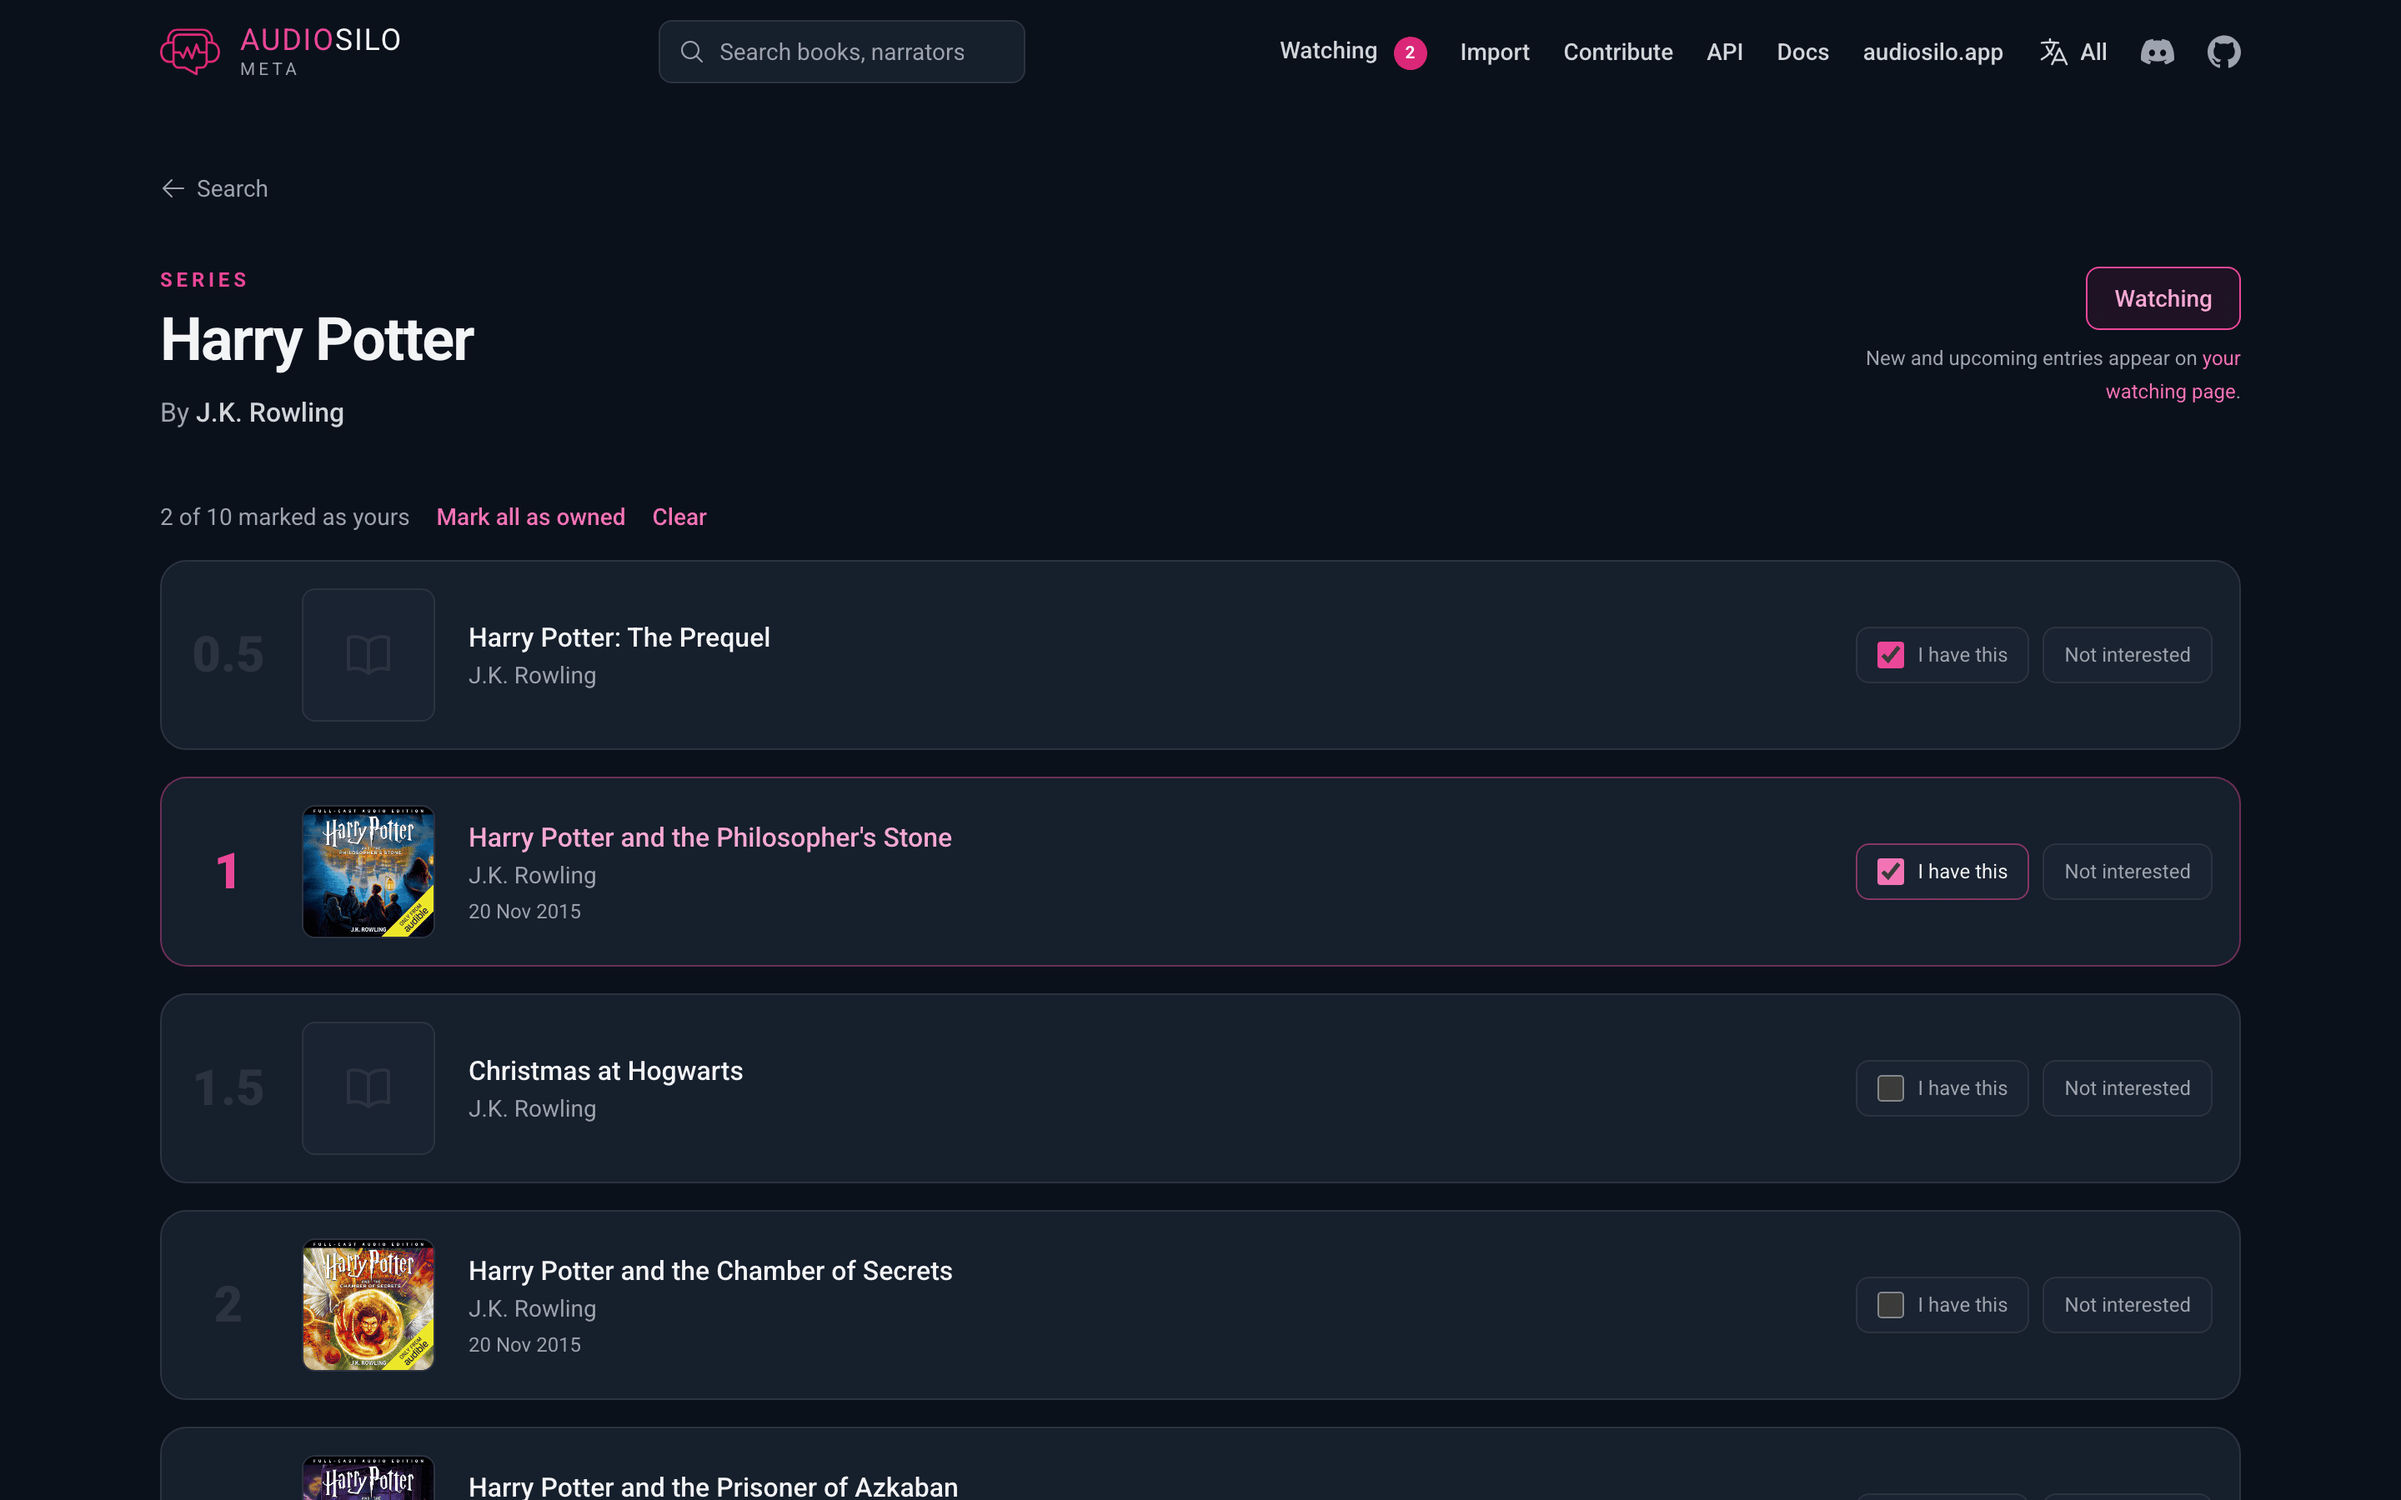
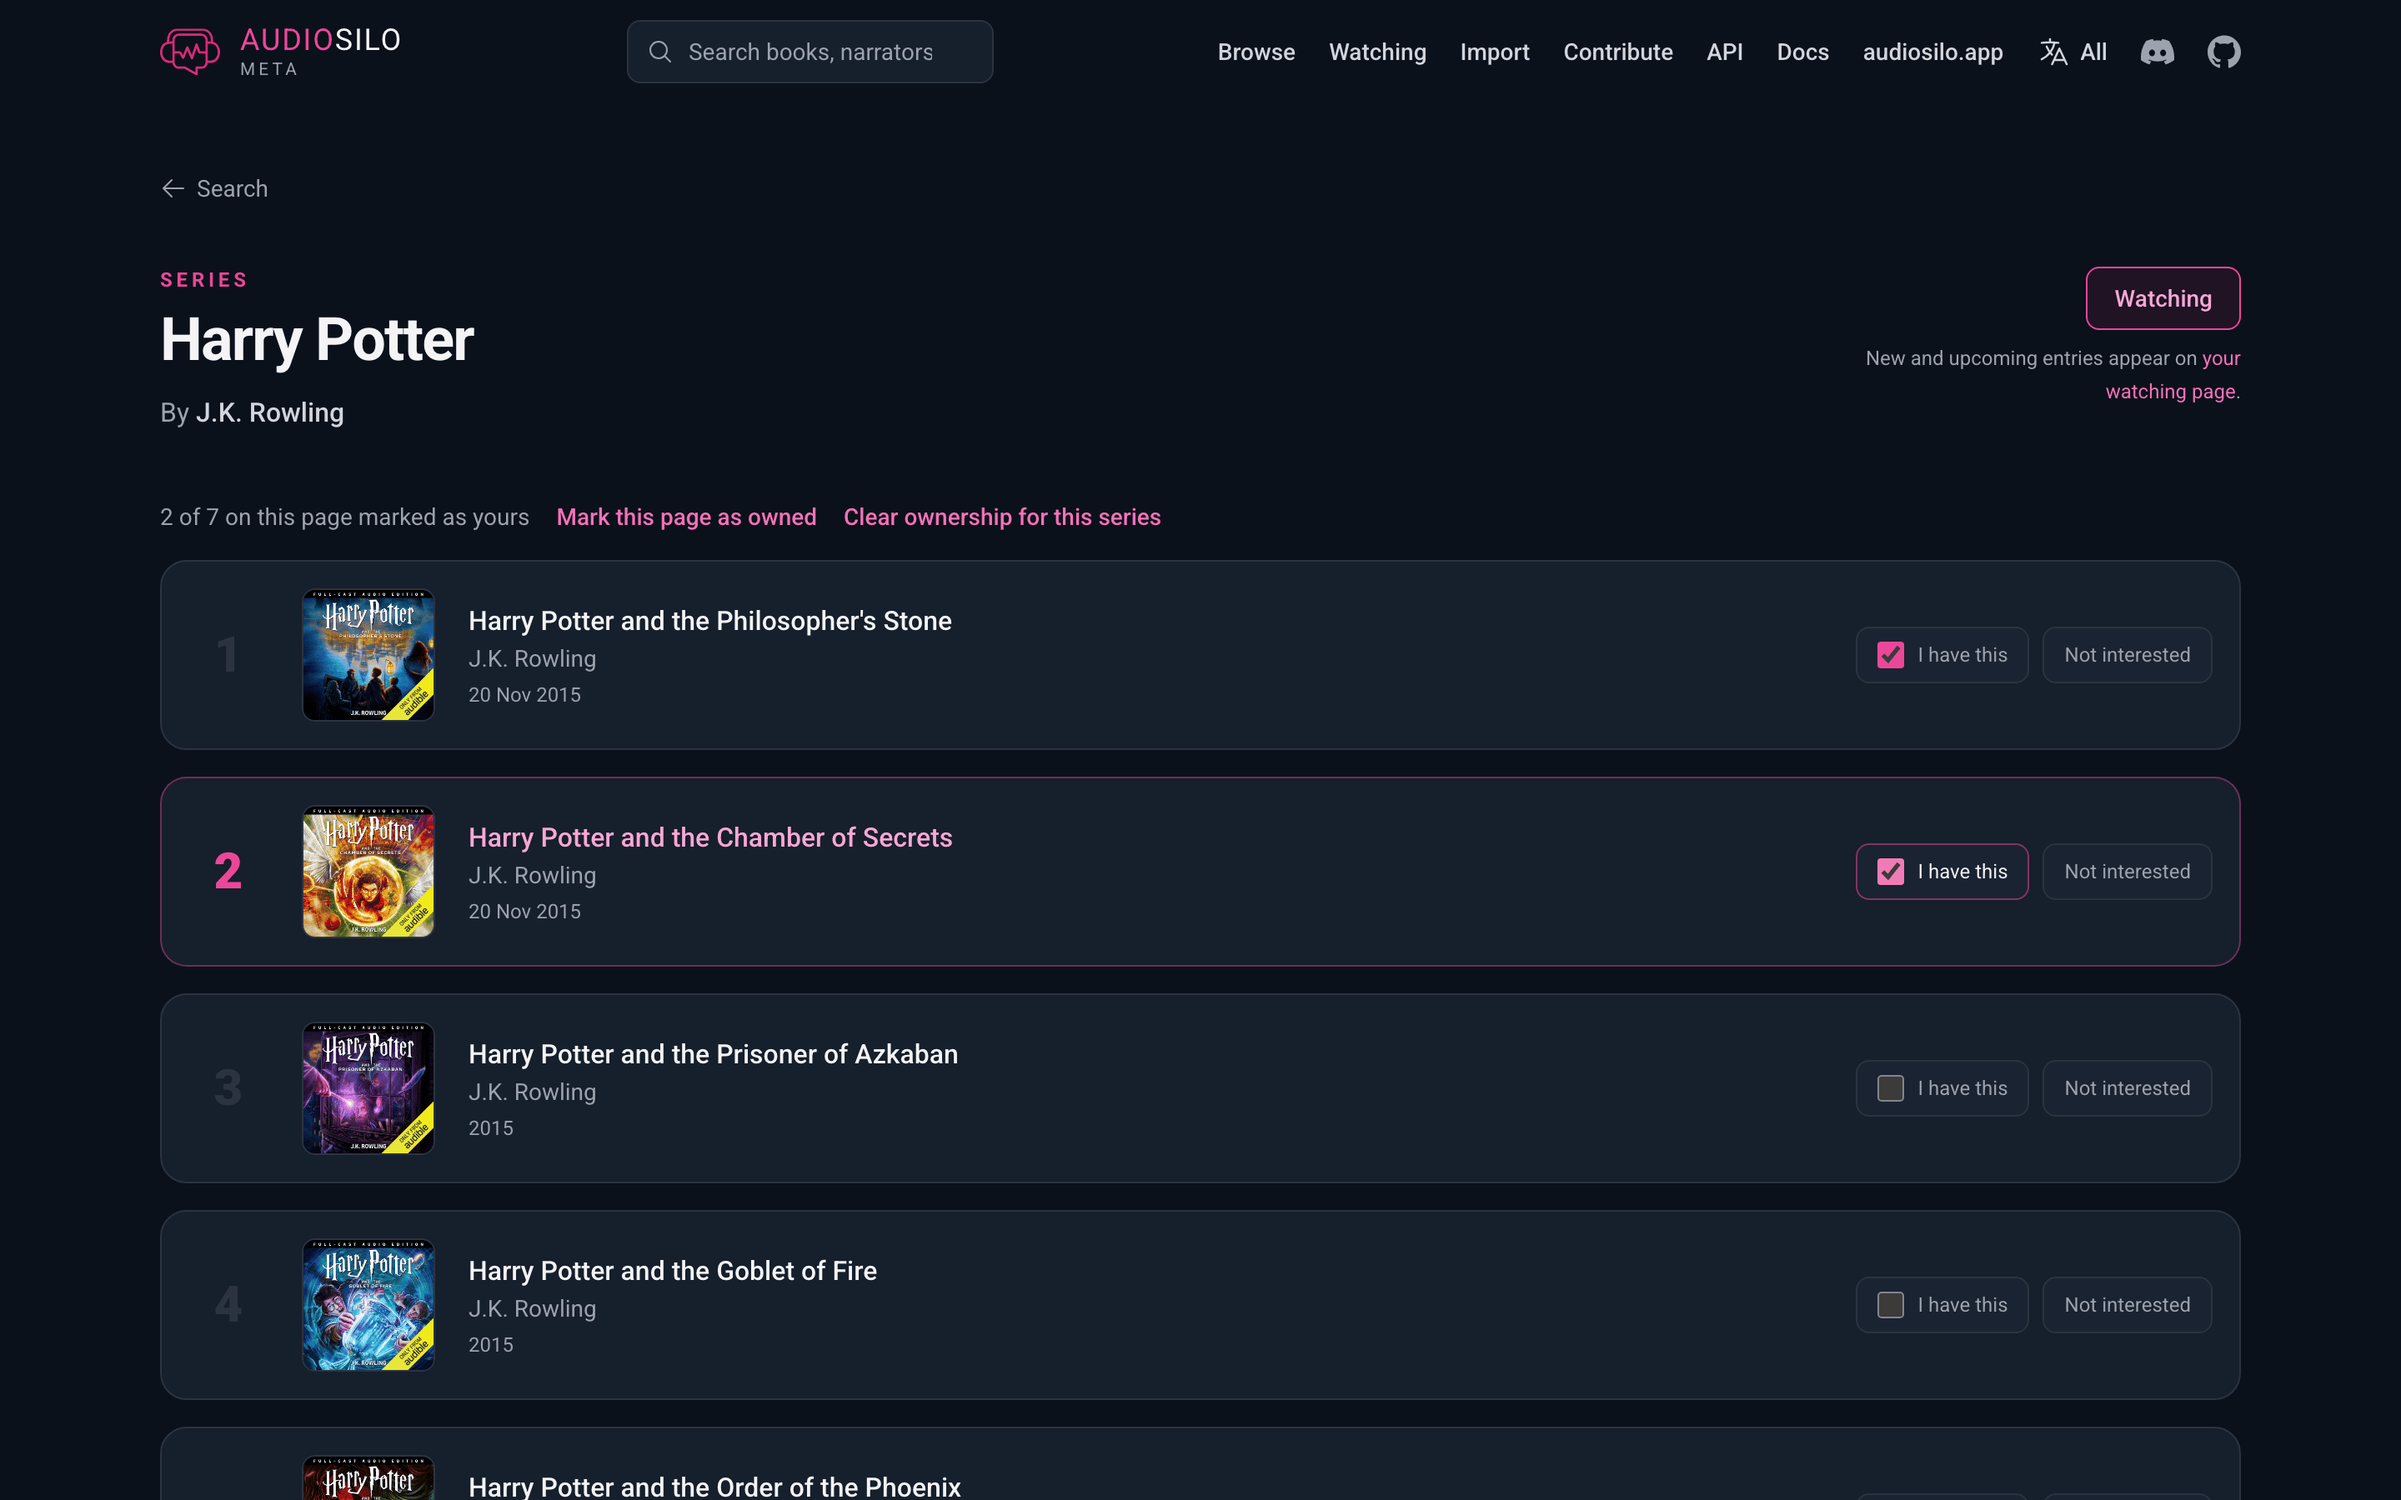
docs(meta): clarify reviewed catalogue behavior

diff --git a/docs-developers/meta/api.md b/docs-developers/meta/api.md
@@ -779,7 +779,8 @@ omitted on an older artifact:
   It is omitted when the series has no variant ordering.
 
 `works` is sorted by the numeric start of each `position` string (so `"1-3.5"`
-sorts by 1). Paging here is **opt-in**: with no `?limit=` the whole member list is
+sorts by 1), then by the raw position string and work id to break ties
+deterministically. Paging here is **opt-in**: with no `?limit=` the whole member list is
 returned and the echoed `limit` is `0` (the player's series rail depends on getting
 the complete list). Pass `?limit=` - clamped to a maximum of **500** - with an
 optional `?offset=` to window it. `works_total` is always the unpaged member count,
@@ -1313,7 +1314,8 @@ check its access log for this route.
 ## HTML routes and sitemaps
 
 With `--site`, metaserve renders catalogue facts and embeds the entity payload
-before React hydrates. These are HTML routes, not additional JSON endpoints:
+before React hydrates. The repository's Dockerfile builds the site and Go binary
+into one image. These are HTML routes, not additional JSON endpoints:
 
 | Route | Content |
 |---|---|
@@ -1365,6 +1367,13 @@ returns **500** with `no-store`, never a successful blank entity page. A real
 missing record remains **404**. Spoiler bodies and aliases remain in the DOM
 inside closed native `details` elements, marked `data-nosnippet`; work tab
 panels stay mounted with `hidden` semantics.
+
+HTML page validators include an explicit internal renderer representation version
+in `pageIdentity`, alongside the page's shell name and bytes, site URL and available
+build revision. Bumping that version invalidates cached pages when Go-rendered
+HTML changes, including Docker and other builds without VCS metadata. This is
+cache invalidation, not a content-change date; reliable build stamping and entity
+revision tracking remain [follow-up work](https://github.com/KodeStar/audiosilo-meta/issues/2927).
 
 `/sitemap-index.xml` lists the static sitemap when present and the generated
 `/sitemaps/{family}-{shard}.xml` shards (up to 50,000 URLs each). Entity URLs

diff --git a/docs-users/community/meta-site.md b/docs-users/community/meta-site.md
@@ -63,8 +63,10 @@ JavaScript disabled.
 abridgement, runtime, release date, publisher and chapter count side by side.
 Follow a recording link to its detailed card. **Unknown** means the catalogue
 does not state that fact; a missing abridgement flag does not prove a recording
-is unabridged. Store links let you check a retailer, without claiming current
-availability or inferring a production format from a narrator or publisher.
+is unabridged. **None catalogued** means no chapters are recorded in the catalogue,
+not that the recording has no chapters. Store links let you check a retailer,
+without claiming current availability or inferring a production format from a
+narrator or publisher.
 
 ![Comparing the catalogued recordings of a book](/img/screenshots/meta/work-comparison.png)
 
@@ -215,8 +217,10 @@ it's worth keeping a [backup](#backing-up-your-watchlist).
 ## Marking what you own
 
 While you're watching a series, each volume in the list gains an **I have this**
-checkbox, and a line above the list keeps the count - "3 of 11 marked as yours" -
-with **Mark all as owned** and **Clear** beside it.
+checkbox, and a line above the list counts the volumes on the current page:
+"3 of 11 on this page marked as yours". **Mark this page as owned** marks only
+the volumes shown; **Clear ownership for this series** clears the series'
+ownership marks across every page.
 
 Every volume also shows its **release date**, at whatever precision the catalogue
 records: a full date where one is known ("20 Oct 2026"), otherwise just the month
